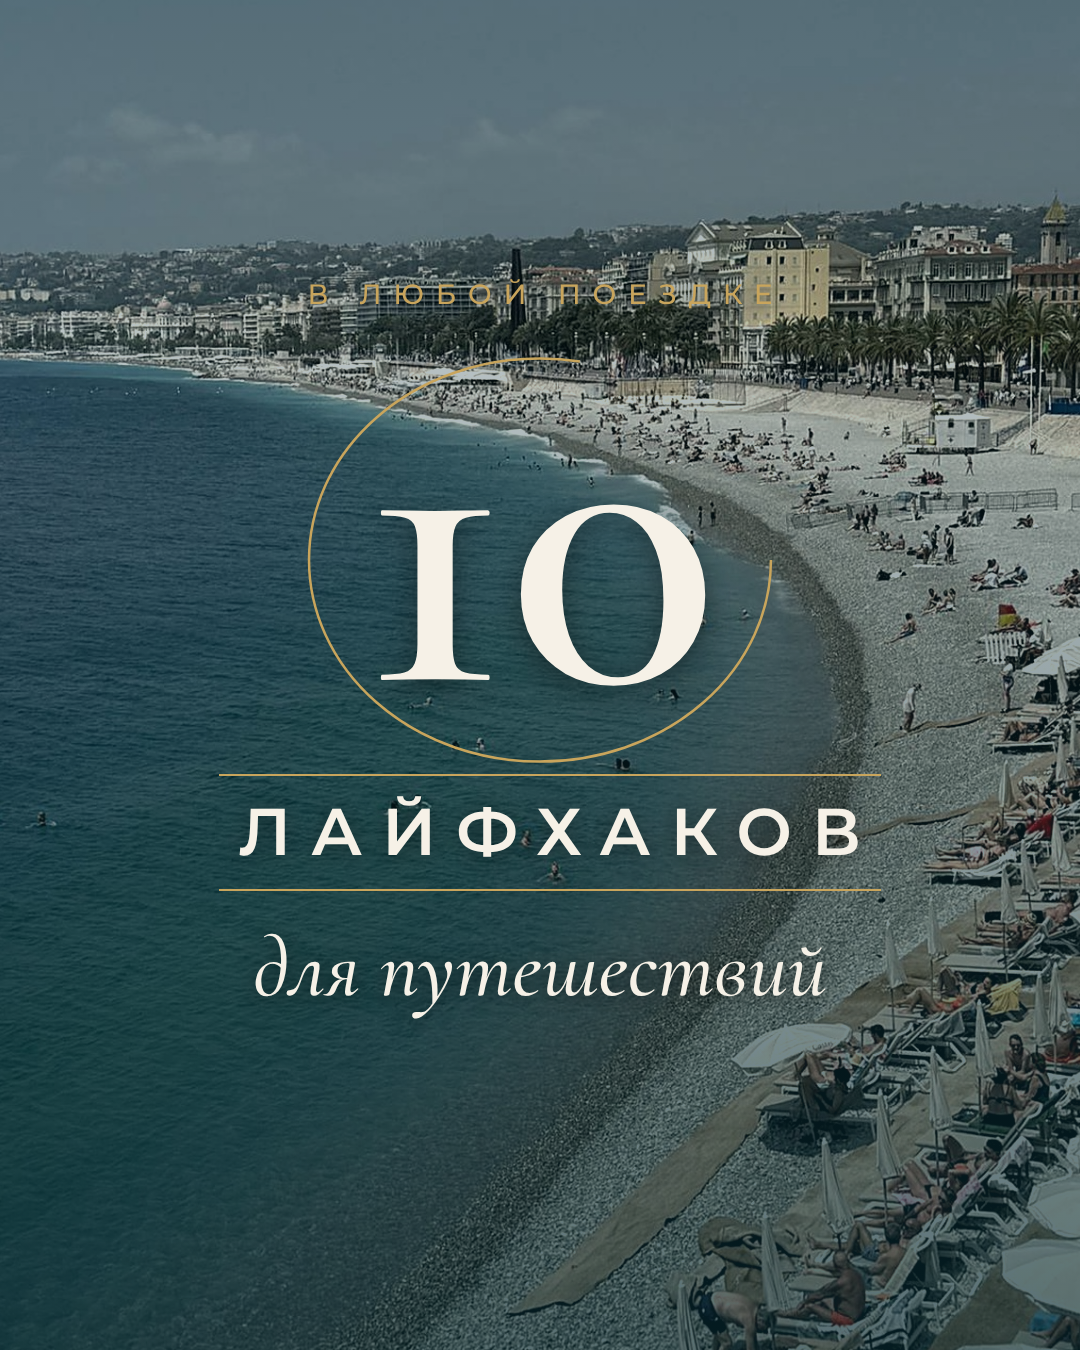
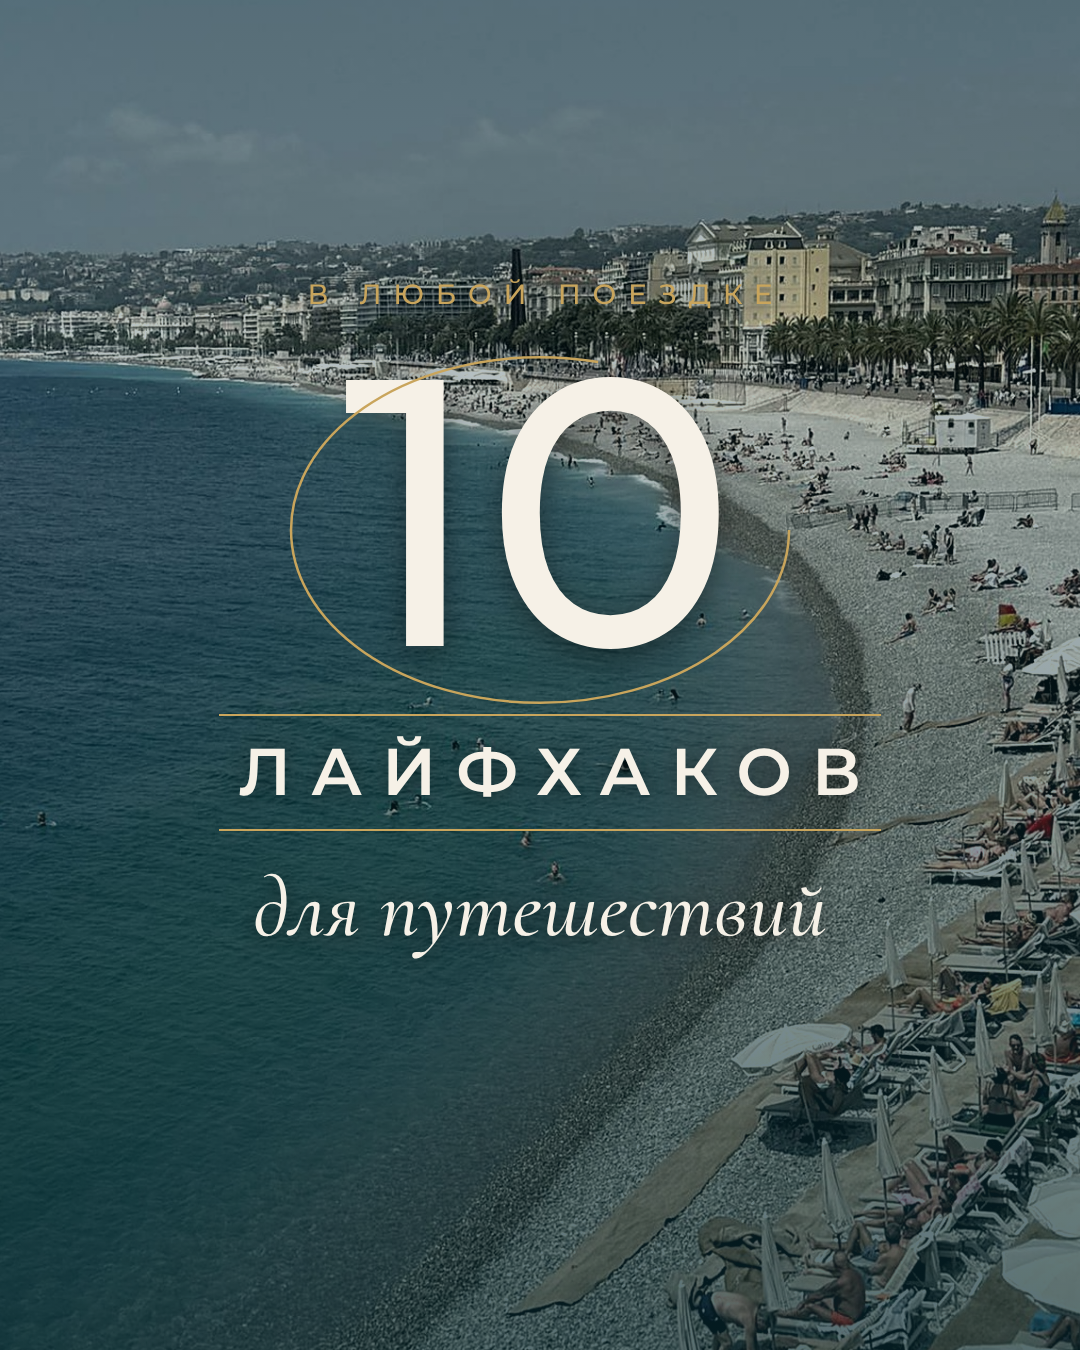
Telegram album: cover + two list slides; readable cover numeral
Claude-Session: https://claude.ai/code/session_01MfS1QBJzWMUPe5nNUUUdV5

diff --git a/make_tg_lists.js b/make_tg_lists.js
@@ -1,0 +1,49 @@
+// Telegram album: two list slides (4:5) with the lifehacks in the dark InVoyage style.
+const { chromium } = require('playwright');
+const path = require('path'), fs = require('fs');
+const F = 'file://' + path.resolve(__dirname, 'assets/fonts') + '/';
+const BG = 'file://' + path.resolve(__dirname, 'library/2026-11-28/batch3_03.jpg');
+const CYR = 'U+0301,U+0400-045F,U+0490-0491,U+04B0-04B1,U+2116';
+const face = (fam, file, w, style = 'normal') => ['cyrillic', 'latin'].map(s =>
+  `@font-face{font-family:'${fam}';font-weight:${w};font-style:${style};src:url('${F}${file}-${s}-${w}-${style}.woff2') format('woff2');` +
+  (s === 'cyrillic' ? `unicode-range:${CYR};` : '') + '}').join('');
+const CSS = `${face('CG', 'cormorant-garamond', 500)}${face('CG', 'cormorant-garamond', 500, 'italic')}${face('CG', 'cormorant-garamond', 600)}${face('MT', 'montserrat', 400)}${face('MT', 'montserrat', 500)}
+*{margin:0;padding:0;box-sizing:border-box}
+html,body{width:1080px;height:1350px;overflow:hidden;background:#0c1116;color:#F6F1E7}
+.bg{position:absolute;inset:0;background:linear-gradient(180deg,rgba(12,20,26,.74),rgba(10,16,22,.93)),url(${BG}) 38% 40%/cover}
+.head{position:absolute;left:84px;right:84px;top:84px;display:flex;justify-content:space-between;align-items:baseline}
+.head .k{font:500 26px/1 MT;letter-spacing:.34em;text-transform:uppercase;color:#C9A55C}
+.head .w{font:italic 500 44px/1 CG;color:#F6F1E7}
+.rows{position:absolute;left:84px;right:84px;top:190px}
+.row{display:flex;gap:40px;padding:34px 0;border-top:1px solid rgba(201,165,92,.4);align-items:flex-start;height:200px}
+.row:last-child{border-bottom:1px solid rgba(201,165,92,.4)}
+.n{font:italic 600 76px/1 CG;color:#C9A55C;width:110px;flex:none;margin-top:-4px}
+.t{font:500 36px/1.15 MT;letter-spacing:.06em;text-transform:uppercase}
+.s{font:400 27px/1.38 MT;color:rgba(246,241,231,.78);margin-top:14px}
+`;
+const L = [
+  ['01', 'Копии документов', 'Фото паспорта, билетов и брони храните в облаке и пошлите себе на почту.'],
+  ['02', 'Дата отмены', 'Запишите дату, до которой бронь отменяется без штрафа, и поставьте напоминание.'],
+  ['03', 'Соседние даты', 'Перелёт на день раньше или позже иногда стоит дешевле. Сравните несколько дат.'],
+  ['04', 'Офлайн-карты', 'Скачайте карты и словарь заранее: они работают без интернета.'],
+  ['05', 'Ручная кладь', 'Положите в ручную кладь вещи на сутки: если багаж задержится, это выручит.'],
+  ['06', 'Страховка', 'Оформите страховку заранее и сохраните номер полиса в телефоне.'],
+  ['07', 'Две карты', 'Возьмите две банковские карты разных банков и храните их отдельно.'],
+  ['08', 'Метка в багаже', 'Положите в чемодан трекер или бирку с контактами: так проще найти багаж.'],
+  ['09', 'Повербанк', 'Повербанк возите только в ручной клади и заряжайте перед вылетом.'],
+  ['10', 'Чек-лист', 'Составьте список вещей заранее и вычёркивайте по мере сборов.'],
+];
+const page = (items, label) => `<meta charset="utf-8"><style>${CSS}</style><div class="bg"></div>
+<div class="head"><div class="k">${label}</div><div class="w">InVoyage</div></div><div class="rows">` +
+  items.map(r => `<div class="row"><div class="n">${r[0]}</div><div><div class="t">${r[1]}</div><div class="s">${r[2]}</div></div></div>`).join('') + '</div>';
+(async () => {
+  const OUT = path.resolve(__dirname, 'out/telegram_lifehacks'); fs.mkdirSync(OUT, { recursive: true });
+  const b = await chromium.launch(), p = await b.newPage({ viewport: { width: 1080, height: 1350 } });
+  const tmp = path.join(OUT, '_p.html');
+  for (const [name, items, label] of [['tg_2', L.slice(0, 5), 'Лайфхаки 1–5'], ['tg_3', L.slice(5), 'Лайфхаки 6–10']]) {
+    fs.writeFileSync(tmp, page(items, label));
+    await p.goto('file://' + tmp); await p.evaluate(() => document.fonts.ready); await p.waitForTimeout(200);
+    await p.screenshot({ path: `${OUT}/${name}.png` });
+  }
+  fs.unlinkSync(tmp); await b.close();
+})();

diff --git a/render_cards.js b/render_cards.js
@@ -124,7 +124,7 @@ const NOTESCSS = `
 .cb i{position:absolute;left:0;top:0;bottom:0;background:#C9A55C;width:0}
 .luxe .nk,.luxe #a0{font-size:28px!important;line-height:1.4}
 .luxe .nk{font-family:MT,sans-serif;font-weight:500;font-size:30px;letter-spacing:.42em;text-transform:uppercase;color:#C9A55C;text-shadow:0 2px 14px rgba(0,0,0,.5);opacity:0;margin-right:-.42em}
-.luxe .n5{position:relative;display:inline-block;font-family:CG,serif;font-weight:600;font-size:440px;line-height:1;color:#F6F1E7;text-shadow:0 8px 30px rgba(0,0,0,.4);opacity:0;padding:0 36px;margin-top:6px}
+.luxe .n5{position:relative;display:inline-block;font-family:MT,sans-serif;font-weight:500;font-size:380px;line-height:1;color:#F6F1E7;text-shadow:0 8px 30px rgba(0,0,0,.4);opacity:0;padding:0 36px;margin-top:6px}
 .luxe .n5 svg{position:absolute;left:-30px;top:30px;width:calc(100% + 60px);height:calc(100% - 20px);overflow:visible}
 .luxe .n5 svg ellipse{fill:none;stroke:#C9A55C;stroke-width:2.5;vector-effect:non-scaling-stroke}
 .luxe .nw{font-family:MT,sans-serif;font-weight:600;font-size:66px;line-height:1.1;letter-spacing:.3em;text-transform:uppercase;color:#F6F1E7;opacity:0;margin-top:14px;margin-right:-.3em}
